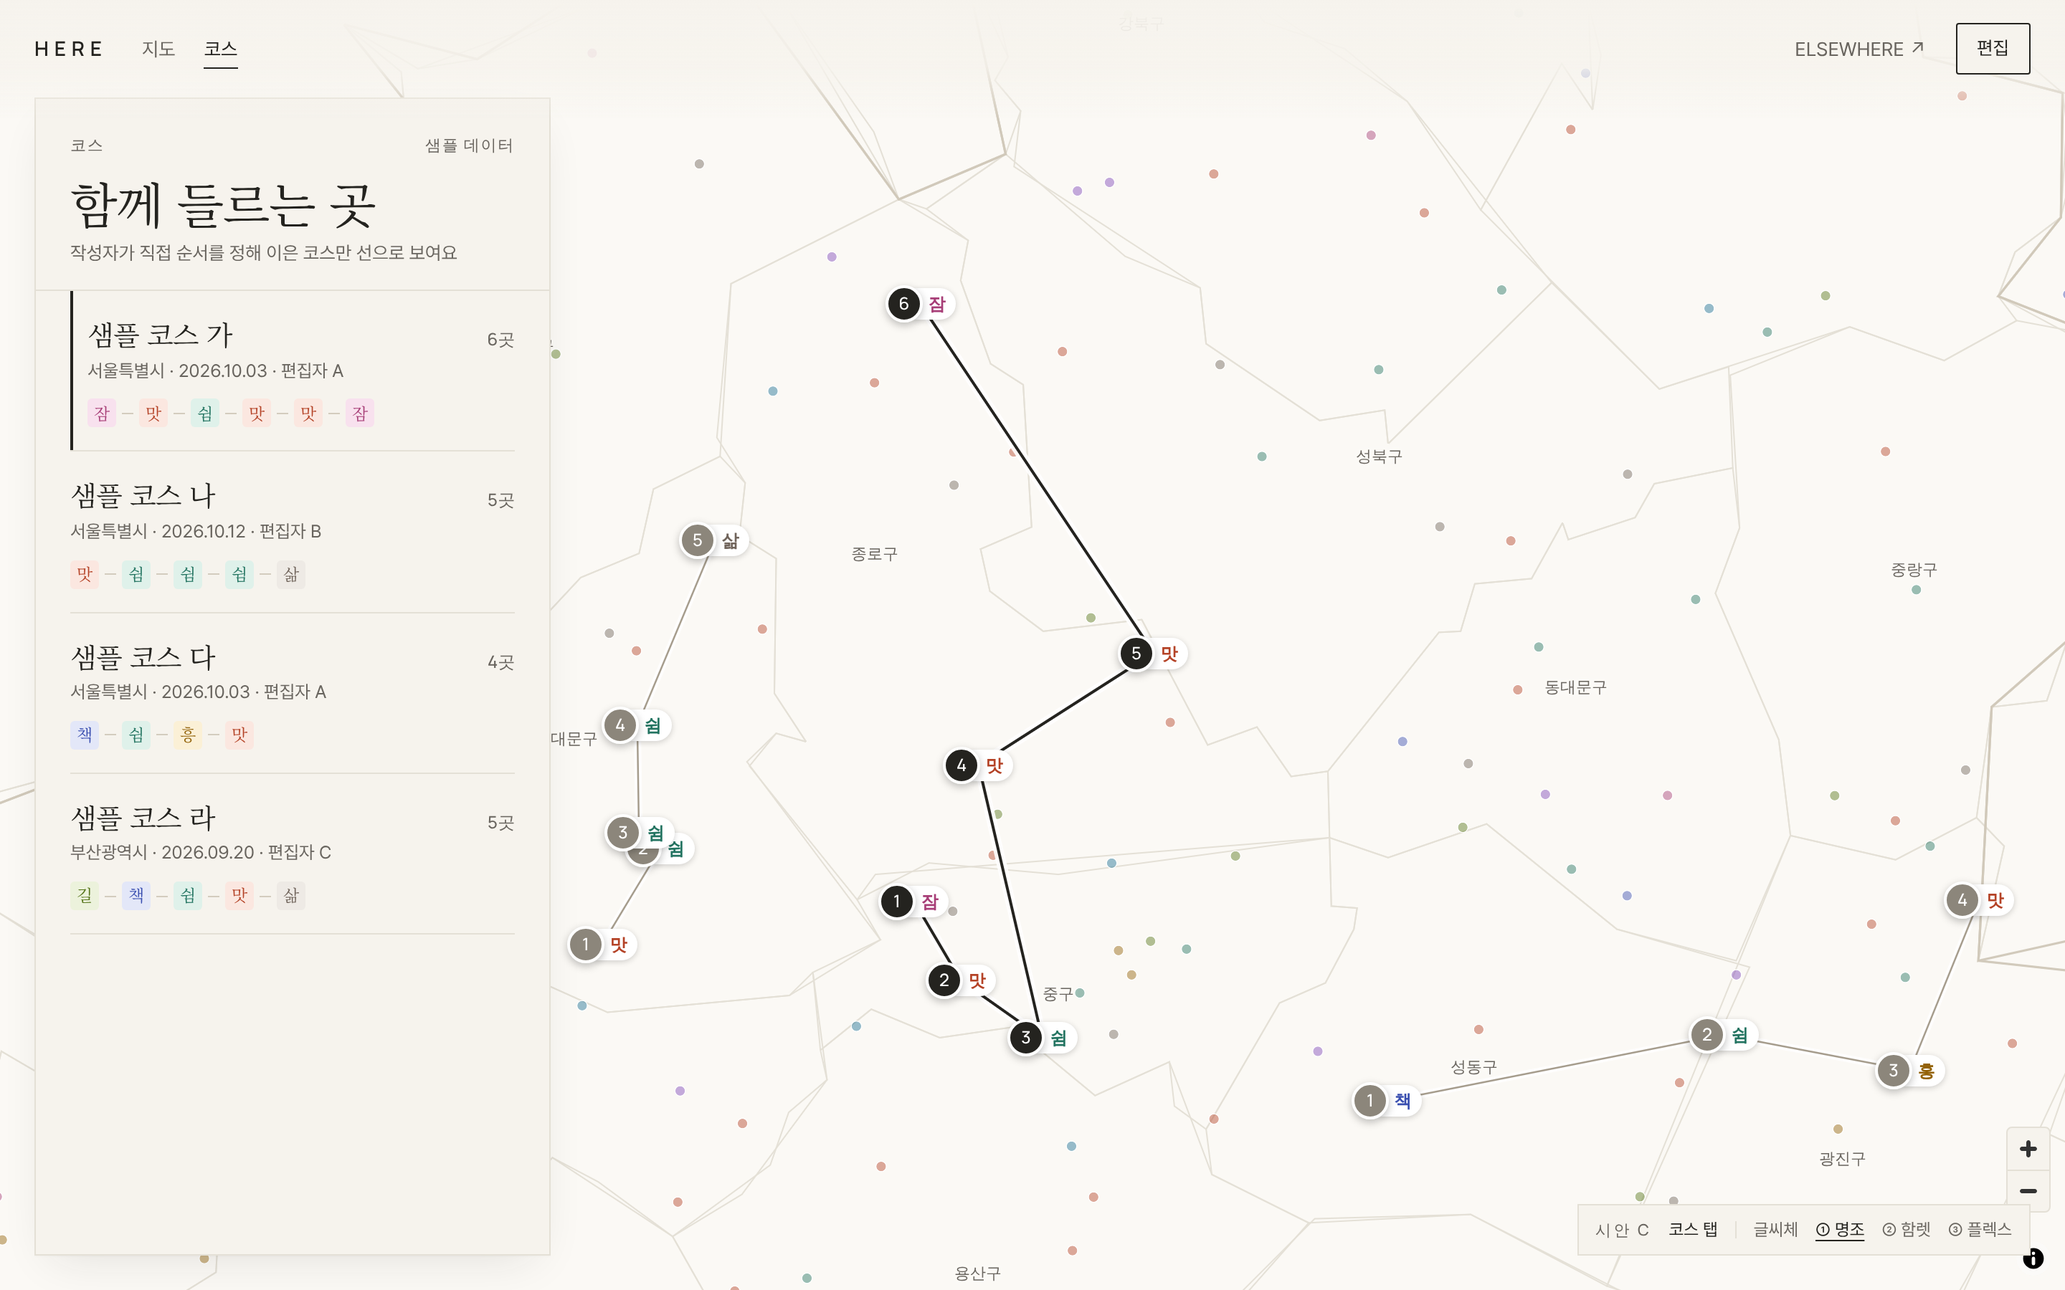
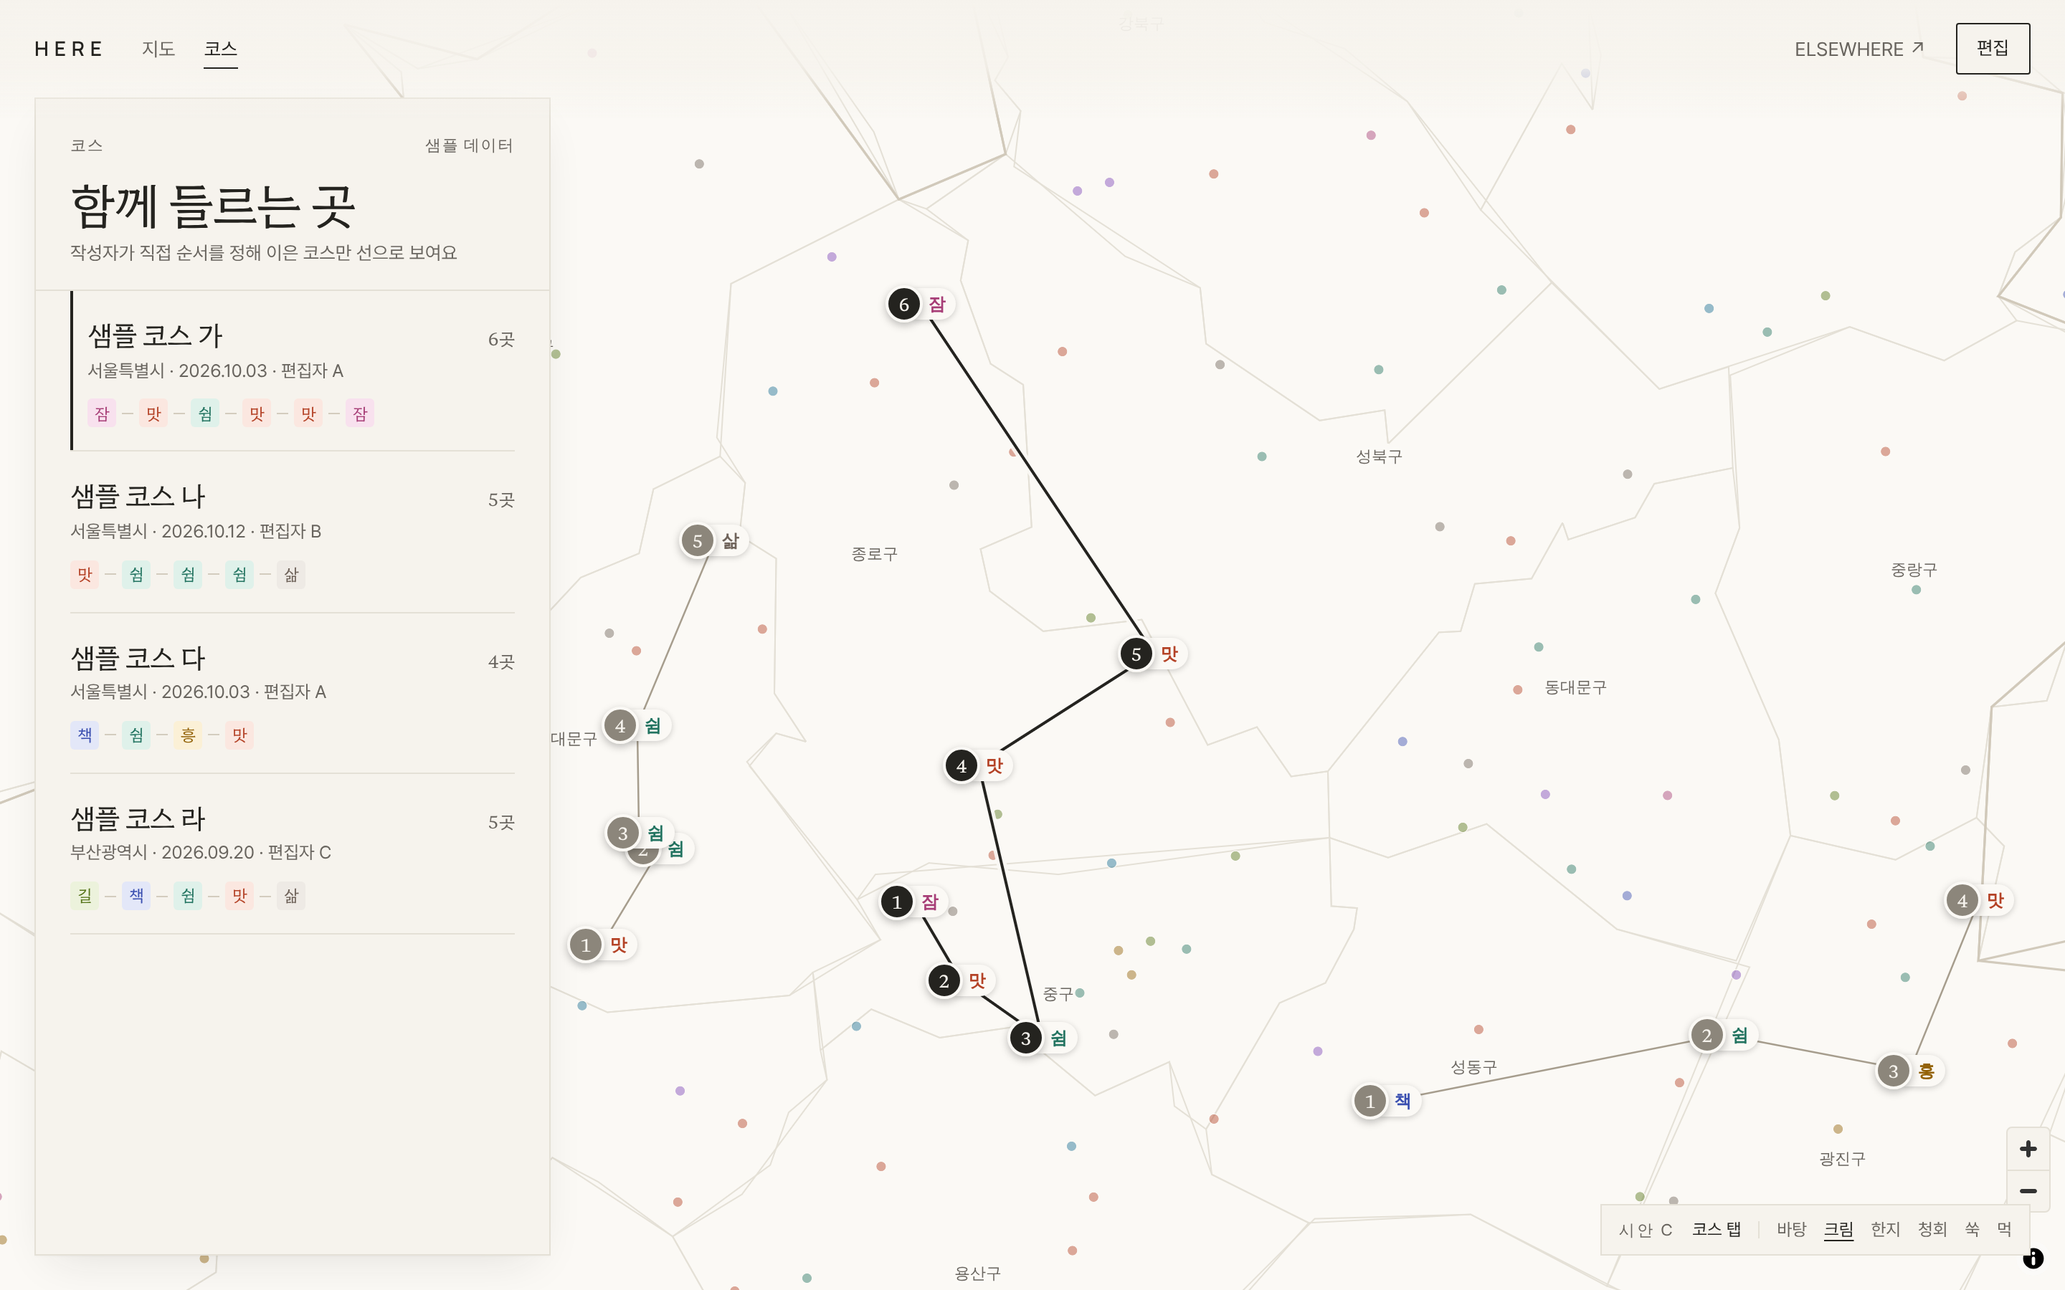
글씨체 함렛 확정, 바탕색 후보 5개(크림·한지·청회·쑥·먹) 시안
- 제목·음절·숫자 Hahmlet, 쓰지 않는 Noto Serif KR·IBM Plex 제거
- ?bg= 로 바꾸는 바탕색 팔레트 5개, 모두 AA 대비
- 지도 바다·해안선·코스 선 색을 토큰에서 읽도록 정리(어두운 바탕 지원)

Claude-Session: https://claude.ai/code/session_01MkK44rMnz1kXKMRMkipASN

diff --git a/src/styles/global.css b/src/styles/global.css
@@ -1,31 +1,25 @@
 @import 'tailwindcss';
 @import 'pretendard/dist/web/variable/pretendardvariable-dynamic-subset.css';
-@import '@fontsource/noto-serif-kr/400.css';
-@import '@fontsource/noto-serif-kr/500.css';
 @import '@fontsource-variable/manrope';
-/* 글씨체 후보(시안 확정 후 하나만 남긴다) — docs/DESIGN_SYSTEM.md §글꼴 */
-@import '@fontsource-variable/hahmlet';
-@import '@fontsource/ibm-plex-sans-kr/400.css';
-@import '@fontsource/ibm-plex-sans-kr/500.css';
-@import '@fontsource/ibm-plex-mono/400.css';
-@import '@fontsource/ibm-plex-mono/500.css';
+@import '@fontsource-variable/hahmlet';   /* 제목·음절·숫자: 함렛(2026-11-19 사용자 선택 ②) */
 @import 'maplibre-gl/dist/maplibre-gl.css';
 
-/* 디자인 토큰 — docs/DESIGN_SYSTEM.md. ELSEWHERE 디자인 기준의 색 이름·값을 그대로 잇는다. */
+/* 디자인 토큰 — docs/DESIGN_SYSTEM.md. 색 이름은 ELSEWHERE 디자인 기준을 잇는다. */
 @theme {
-  --color-paper: #F6F3ED;      /* Paper: 바탕·바다 */
-  --color-land: #FBF9F5;       /* 땅 (Paper보다 한 단계 밝게) */
+  --color-paper: #F6F3ED;      /* Paper: 바탕·패널 */
+  --color-sea: var(--color-paper); /* 지도의 바다(바탕과 다르게 둘 수 있음) */
+  --color-land: #FBF9F5;       /* 땅 */
   --color-linen: #E4E0D6;      /* Linen: 가는 선, 구분선 */
-  --color-taupe: #A69D8D;      /* Taupe: 장식 전용(글자에 쓰지 않음) */
-  --color-olive: #4F594C;      /* Olive: 포인트, 활성 상태 */
+  --color-taupe: #A69D8D;      /* Taupe: 장식 전용 */
+  --color-olive: #4F594C;      /* Olive: 포인트(예약) */
   --color-ink: #24231F;        /* Ink: 본문 */
-  --color-caption: #69655F;    /* Caption: 작은 글자(대비 5:1 이상) */
+  --color-caption: #69655F;    /* Caption: 작은 글자 */
   --color-line: #D3CCBE;       /* 시·도 경계 */
   --color-line-2: #E4E0D6;     /* 시·군·구 경계 */
+  --color-coast: #CFC6B6;      /* 해안선 */
   --color-focus: #2457E6;      /* 키보드 포커스 링 */
-  /* 예전 이름 호환 */
   --color-ink-2: #4A4741;
-  --color-ink-3: #69655F;
+  --color-ink-3: var(--color-caption);
   --font-sans: var(--f-body);
   --font-serif: var(--f-display);
   --font-latin: var(--f-latin);
@@ -33,24 +27,38 @@
   --ease-out: cubic-bezier(0.23, 1, 0.32, 1);
 }
 
-/* 글씨체 후보 3가지. <html data-type="1|2|3"> 로 바꾼다 */
-:root, :root[data-type='1'] {          /* ① ELSEWHERE 계승: Noto Serif KR + Pretendard + Manrope */
-  --f-display: 'Noto Serif KR', serif; --w-display: 400;
+:root {
+  --f-display: 'Hahmlet Variable', 'Noto Serif KR', serif; --w-display: 380;
   --f-body: 'Pretendard Variable', Pretendard, system-ui, sans-serif;
-  --f-latin: 'Manrope Variable', sans-serif; --f-num: 'Manrope Variable', sans-serif; --w-num: 500;
-  --track-display: -0.02em;
-}
-:root[data-type='2'] {                 /* ② 함렛: 획 대비가 큰 현대 명조 + Pretendard + Manrope */
-  --f-display: 'Hahmlet Variable', serif; --w-display: 380;
+  --f-latin: 'Manrope Variable', sans-serif;
   --f-num: 'Hahmlet Variable', serif; --w-num: 420;
   --track-display: -0.03em;
 }
-:root[data-type='3'] {                 /* ③ 지도 라벨: IBM Plex Sans KR + IBM Plex Mono */
-  --f-display: 'IBM Plex Sans KR', sans-serif; --w-display: 500;
-  --f-body: 'IBM Plex Sans KR', system-ui, sans-serif;
-  --f-latin: 'IBM Plex Mono', monospace; --f-num: 'IBM Plex Mono', monospace; --w-num: 500;
-  --track-display: -0.03em;
+
+/* 바탕색 후보(시안). <html data-bg="…"> 또는 주소 ?bg=… 로 바꾼다. 확정 후 하나만 남긴다. */
+:root[data-bg='hanji'] {   /* 한지: 누런 기를 뺀 중성 백색 */
+  --color-paper: #F4F4F1; --color-land: #FFFFFF; --color-linen: #E3E3DE; --color-taupe: #A3A39B;
+  --color-ink: #1F1F1D; --color-caption: #64645E; --color-ink-2: #45453F; --color-line: #CFCFC8; --color-line-2: #E6E6E1; --color-coast: #C4C4BC;
 }
+:root[data-bg='sea'] {     /* 청회 바다: 바다는 차가운 회청색, 땅과 패널은 흰 종이 */
+  --color-paper: #F8F8F6; --color-sea: #DCE4E6; --color-land: #FDFDFB; --color-linen: #E2E5E3; --color-taupe: #9AA3A6;
+  --color-ink: #1E2326; --color-caption: #5C6569; --color-ink-2: #3F474B; --color-line: #C6CDCD; --color-line-2: #E3E7E6; --color-coast: #B3BFC2;
+}
+:root[data-bg='ssuk'] {    /* 쑥: 옅은 회녹색, ELSEWHERE 올리브와 같은 계열 */
+  --color-paper: #EEF0E9; --color-land: #F9FAF6; --color-linen: #DCE0D4; --color-taupe: #9FA896;
+  --color-ink: #222820; --color-caption: #5D665A; --color-ink-2: #414A3E; --color-line: #C8CFC0; --color-line-2: #DFE3D8; --color-coast: #BCC5B2;
+}
+:root[data-bg='meok'] {    /* 먹: 어두운 지도. 분류 색이 가장 또렷하게 뜬다 */
+  --color-paper: #1E1E1C; --color-sea: #161615; --color-land: #272725; --color-linen: #3A3935; --color-taupe: #6E6A62;
+  --color-ink: #EDE9E1; --color-caption: #A9A49A; --color-ink-2: #CFCAC0; --color-line: #4C4A45; --color-line-2: #34332F; --color-coast: #57544D;
+  color-scheme: dark;
+}
+
+/* 분류 색 글자·칩. 어두운 바탕에서는 밝게 섞는다 */
+.cat-chip { background: var(--tint); color: var(--ink); }
+.cat-text { color: var(--ink); }
+:root[data-bg='meok'] .cat-chip, :root[data-bg='meok'] .chip-s { background: color-mix(in oklab, var(--ink) 28%, var(--color-paper)) !important; color: color-mix(in oklab, var(--ink) 30%, white) !important; }
+:root[data-bg='meok'] .cat-text { color: color-mix(in oklab, var(--ink) 45%, white); }
 
 html, body { height: 100%; }
 body { background: var(--color-paper); color: var(--color-ink); font-family: var(--f-body); font-weight: 400; -webkit-font-smoothing: antialiased; word-break: keep-all; }
@@ -72,3 +80,4 @@ body { background: var(--color-paper); color: var(--color-ink); font-family: var
 .rlabel.sgg { font-size: 11px; font-weight: 400; }
 
 @media (prefers-reduced-motion: reduce) { *, *::before, *::after { transition-duration: 0ms !important; animation-duration: 0ms !important; } }
+:root[data-bg='meok'] .maplibregl-ctrl-icon, :root[data-bg='meok'] .maplibregl-ctrl-attrib-button { filter: invert(1); }

diff --git a/src/scripts/map/variant-c.ts b/src/scripts/map/variant-c.ts
@@ -24,13 +24,14 @@ export async function initVariantC() {
   }
 
   const stopMarkers: { p: Place; m: maplibregl.Marker }[] = [];
+  const v = (n: string, f: string) => getComputedStyle(document.documentElement).getPropertyValue(n).trim() || f;
   map.on('load', () => {
     map.addSource('others', { type: 'geojson', data: { type: 'FeatureCollection', features: others.map((p) => ({ type: 'Feature', properties: { c: CAT[p.primary].ink }, geometry: { type: 'Point', coordinates: [p.lng, p.lat] } })) } });
-    map.addLayer({ id: 'others', type: 'circle', source: 'others', paint: { 'circle-color': ['get', 'c'], 'circle-radius': ['interpolate', ['linear'], ['zoom'], 6, 1.6, 12, 3.5], 'circle-opacity': 0.45, 'circle-stroke-color': '#fff', 'circle-stroke-width': 0.6 } });
+    map.addLayer({ id: 'others', type: 'circle', source: 'others', paint: { 'circle-color': ['get', 'c'], 'circle-radius': ['interpolate', ['linear'], ['zoom'], 6, 1.6, 12, 3.5], 'circle-opacity': 0.45, 'circle-stroke-color': v('--color-land', '#fff'), 'circle-stroke-width': 0.6 } });
     map.addSource('links', { type: 'geojson', data: links() });
-    map.addLayer({ id: 'links-halo', type: 'line', source: 'links', layout: { 'line-cap': 'round', 'line-join': 'round' }, paint: { 'line-color': '#fff', 'line-width': ['case', ['get', 'active'], 7, 5], 'line-opacity': 0.9 } });
+    map.addLayer({ id: 'links-halo', type: 'line', source: 'links', layout: { 'line-cap': 'round', 'line-join': 'round' }, paint: { 'line-color': v('--color-land', '#fff'), 'line-width': ['case', ['get', 'active'], 7, 5], 'line-opacity': 0.9 } });
     map.addLayer({ id: 'links', type: 'line', source: 'links', layout: { 'line-cap': 'round', 'line-join': 'round' }, paint: {
-      'line-color': ['case', ['get', 'active'], '#24231F', '#A69D8D'], 'line-width': ['case', ['get', 'active'], 2, 1.25] } });
+      'line-color': ['case', ['get', 'active'], v('--color-ink', '#24231F'), v('--color-taupe', '#A69D8D')], 'line-width': ['case', ['get', 'active'], 2, 1.25] } });
 
     for (const p of stops) {
       const el = document.createElement('button'); el.type = 'button'; el.className = 'stop';

diff --git a/src/scripts/map/variant-b.ts b/src/scripts/map/variant-b.ts
@@ -30,7 +30,7 @@ export async function initVariantB() {
     const max = Math.max(1, ...CATEGORIES.map((c) => items.filter((p) => p.primary === c.id).length));
     bars.innerHTML = CATEGORIES.map((c) => {
       const n = items.filter((p) => p.primary === c.id).length;
-      return `<div class="dist-row"><span class="display text-[14px]" style="color:${c.ink}">${c.syllable}</span>
+      return `<div class="dist-row"><span class="display cat-text text-[14px]" style="--ink:${c.ink}">${c.syllable}</span>
         <span class="eyebrow !tracking-[0.06em]">${c.en}</span>
         <span class="relative h-px flex-1 bg-[var(--color-linen)]"><span class="absolute inset-y-[-0.5px] left-0 h-[2px]" style="width:${(n / max) * 100}%;background:${c.ink}"></span></span>
         <span class="num w-8 text-right text-[12px] text-[var(--color-caption)]">${n}</span></div>`;
@@ -40,12 +40,13 @@ export async function initVariantB() {
   }
 
   // 도넛: 분류별 비율을 conic-gradient로
+  const land = getComputedStyle(document.documentElement).getPropertyValue('--color-land').trim() || '#FBF9F5';
   function donut(items: Place[]) {
     const total = items.length; let acc = 0; const stops: string[] = [];
     for (const c of CATEGORIES) {
       const n = items.filter((p) => p.primary === c.id).length; if (!n) continue;
       const a = (acc / total) * 360, b = ((acc + n) / total) * 360; acc += n;
-      stops.push(`${c.ink} ${a}deg ${b - 2}deg`, `#FBF9F5 ${b - 2}deg ${b}deg`);
+      stops.push(`${c.ink} ${a}deg ${b - 2}deg`, `${land} ${b - 2}deg ${b}deg`);
     }
     return `conic-gradient(${stops.join(',')})`;
   }

diff --git a/src/scripts/map/base.ts b/src/scripts/map/base.ts
@@ -35,13 +35,13 @@ export function createBaseMap(container: HTMLElement, regions: Regions, opts: { 
         sgg: { type: 'geojson', data: regions.sgg },
       },
       layers: [
-        { id: 'sea', type: 'background', paint: { 'background-color': css('--color-paper') || '#F6F3ED' } },
+        { id: 'sea', type: 'background', paint: { 'background-color': css('--color-sea') || css('--color-paper') || '#F6F3ED' } },
         { id: 'land', type: 'fill', source: 'sido', paint: { 'fill-color': css('--color-land') || '#FDFCF9' } },
         { id: 'sgg-hover', type: 'fill', source: 'sgg', paint: { 'fill-color': '#000', 'fill-opacity': ['case', ['boolean', ['feature-state', 'hover'], false], 0.035, 0] } },
         { id: 'sgg-line', type: 'line', source: 'sgg', minzoom: ZOOM.sggLines - 0.6,
           paint: { 'line-color': css('--color-line-2') || '#E8E2D7', 'line-width': ['interpolate', ['linear'], ['zoom'], 7, 0.4, 11, 1], 'line-opacity': ['interpolate', ['linear'], ['zoom'], ZOOM.sggLines - 0.6, 0, ZOOM.sggLines, 1] } },
         { id: 'sido-line', type: 'line', source: 'sido', paint: { 'line-color': css('--color-line') || '#D9D2C5', 'line-width': ['interpolate', ['linear'], ['zoom'], 5, 0.6, 10, 1.6] } },
-        { id: 'coast', type: 'line', source: 'sido', paint: { 'line-color': '#CFC6B6', 'line-width': 0.6, 'line-blur': 0.4 } },
+        { id: 'coast', type: 'line', source: 'sido', paint: { 'line-color': css('--color-coast') || '#CFC6B6', 'line-width': 0.6, 'line-blur': 0.4 } },
       ],
     },
     bounds: KOREA_BOUNDS,

diff --git a/src/scripts/map/places.ts b/src/scripts/map/places.ts
@@ -17,14 +17,14 @@ export function thumbStyle(p: Pick<Place, 'primary' | 'id'>) {
   const n = [...p.id].reduce((a, ch) => a + ch.charCodeAt(0), 0);
   const ang = (n * 47) % 360;
   return `background:
-    radial-gradient(120% 90% at ${20 + (n % 60)}% ${10 + (n % 50)}%, color-mix(in oklab, ${c.tint} 80%, #F6F3ED) 0%, transparent 65%),
-    linear-gradient(${ang}deg, color-mix(in oklab, ${c.ink} 38%, #E4E0D6) 0%, color-mix(in oklab, ${c.ink} 18%, #F6F3ED) 100%);`;
+    radial-gradient(120% 90% at ${20 + (n % 60)}% ${10 + (n % 50)}%, color-mix(in oklab, ${c.tint} 80%, var(--color-paper)) 0%, transparent 65%),
+    linear-gradient(${ang}deg, color-mix(in oklab, ${c.ink} 38%, var(--color-linen)) 0%, color-mix(in oklab, ${c.ink} 18%, var(--color-paper)) 100%);`;
 }
 
 export function syllableChip(id: CategoryId, size: 'sm' | 'md' = 'sm') {
   const c = CAT[id];
   const s = size === 'sm' ? 'size-5 text-[11.5px]' : 'size-6 text-[13px]';
-  return `<span class="display inline-grid place-items-center rounded-[3px] ${s}" style="background:${c.tint};color:${c.ink}" title="${c.en}">${c.syllable}</span>`;
+  return `<span class="display cat-chip inline-grid place-items-center rounded-[3px] ${s}" style="--tint:${c.tint};--ink:${c.ink}" title="${c.en}">${c.syllable}</span>`;
 }
 
 export function placeRow(p: Place, i = 0) {

diff --git a/docs/DESIGN_SYSTEM.md b/docs/DESIGN_SYSTEM.md
@@ -18,17 +18,27 @@ v1에서 바꾼 것: 굵은 글자(700–800)와 그림자, 검은 알약 버튼
 
 분류 9색은 `src/data/categories.ts` (ink: 마커·글자, tint: 칩 바탕). 모두 AA 대비 통과.
 
-## 글꼴 — 후보 3개 (사용자 선택 대기)
+## 글꼴 — **② 함렛 확정** (2026-11-19)
 
-`<html data-type>` 또는 주소 `?type=1|2|3` 으로 바꾼다. 토큰: `--f-display`(제목·음절), `--f-body`(본문), `--f-latin`(워드마크·영문 라벨), `--f-num`(숫자).
+| 쓰임 | 글꼴 |
+|---|---|
+| 제목·음절·숫자 | Hahmlet Variable (제목 380, 숫자 420, 표 형식 숫자) |
+| 본문 | Pretendard Variable 400 |
+| 워드마크·영문 라벨 | Manrope Variable |
 
-| | 제목·음절 | 본문 | 영문·숫자 | 느낌 |
+모두 자체 호스팅(`@fontsource-variable/hahmlet`, `pretendard`, `@fontsource-variable/manrope`). 후보였던 Noto Serif KR, IBM Plex는 삭제했다.
+
+## 바탕색 — 후보 5개 (사용자 선택 대기)
+
+주소 `?bg=paper|hanji|sea|ssuk|meok` 또는 `<html data-bg>`. 정의는 `src/styles/global.css`. 모든 후보에서 본문 13:1 이상, 캡션 5.2:1 이상(AA).
+
+| 후보 | 바탕/패널 | 바다 | 땅 | 성격 |
 |---|---|---|---|---|
-| ① 명조 | Noto Serif KR 400 | Pretendard | Manrope 500 | ELSEWHERE와 같은 조합. 가장 조용하고 문학적 |
-| ② 함렛 | Hahmlet(가변) 380 | Pretendard | 숫자도 Hahmlet, 영문 Manrope | 획 대비가 큰 현대 명조. 숫자가 잡지처럼 보임 |
-| ③ 플렉스 | IBM Plex Sans KR 500 | IBM Plex Sans KR | IBM Plex Mono | 지도 라벨·도면 같은 단정한 고딕. ELSEWHERE와 대비 |
-
-모두 자체 호스팅(fontsource / pretendard 패키지). 하나를 고르면 나머지는 `global.css`에서 지운다.
+| 크림 `paper` | #F6F3ED | 바탕과 같음 | #FBF9F5 | 현행. ELSEWHERE와 같은 Paper. 디자인 점검에서 'AI 기본 색'으로 지적됨 |
+| 한지 `hanji` | #F4F4F1 | 바탕과 같음 | #FFFFFF | 누런 기를 뺀 중성 백색. 가장 깔끔, 분류 색이 정확하게 보임 |
+| 청회 `sea` | #F8F8F6 | #DCE4E6 | #FDFDFB | 바다만 차가운 회청색. 땅과 바다가 가장 잘 갈려 지도로 읽힘 |
+| 쑥 `ssuk` | #EEF0E9 | 바탕과 같음 | #F9FAF6 | 옅은 회녹색. ELSEWHERE 올리브와 같은 계열이라 자매 느낌 유지 |
+| 먹 `meok` | #1E1E1C | #161615 | #272725 | 어두운 지도. 분류 색이 가장 또렷, 밤에 보기 좋음. 사진이 들어오면 무게가 커짐 |
 
 ## 문법
 

diff --git a/README.md b/README.md
@@ -2,7 +2,7 @@
 
 국내의 맛·쉼·멋·길… 가까운 곳들을 **지도 위에 찍고 잇는** 기록. 해외 여행기 아카이브 [ELSEWHERE](https://elsewhere-travel-archive.vercel.app/)의 짝 사이트다.
 
-> 상태: **초안**. 홈 지도는 시안 B로 결정, 글씨체 후보 3개 비교 중(`?type=1|2|3`). 지도 위 장소는 모두 **샘플 데이터**다.
+> 상태: **초안**. 홈 지도는 시안 B, 글씨체는 함렛으로 결정. 바탕색 후보 5개 비교 중(`?bg=paper|hanji|sea|ssuk|meok`). 지도 위 장소는 모두 **샘플 데이터**다.
 
 ## 빠른 시작
 
@@ -14,7 +14,7 @@ pnpm dev                # http://localhost:4321
 
 | 주소 | 내용 |
 |---|---|
-| `/` | 홈 (시안 B) — `?type=1|2|3` 글씨체 후보 |
+| `/` | 홈 (시안 B) — `?bg=…` 바탕색 후보 |
 | `/drafts/a` | 시안 A · 사진 핀 (`?sel=1`: 가장 큰 묶음 선택 상태) |
 | `/drafts/b` | 시안 B · 음절 + 행정구역 묶음 (`?at=seoul`: 서울 확대) |
 | `/drafts/c` | 코스 탭 시안 (작성자가 등록한 코스만 선으로) |
@@ -24,7 +24,7 @@ pnpm dev                # http://localhost:4321
 
 ## 스택
 
-Astro 7 + TypeScript + Tailwind 4, pnpm, Node 24(로컬은 22 이상). 지도는 MapLibre GL(타일 없이 행정구역 GeoJSON만으로 그린 백지도) + supercluster.
+Astro 7 + TypeScript + Tailwind 4, pnpm. 글꼴 함렛 + Pretendard + Manrope, Node 24(로컬은 22 이상). 지도는 MapLibre GL(타일 없이 행정구역 GeoJSON만으로 그린 백지도) + supercluster.
 배포는 Vercel(`@astrojs/vercel`): 공개 페이지는 정적, `/admin`·`/api` 는 서버 함수. 이유는 [docs/AUTH.md](docs/AUTH.md).
 
 ## 문서
